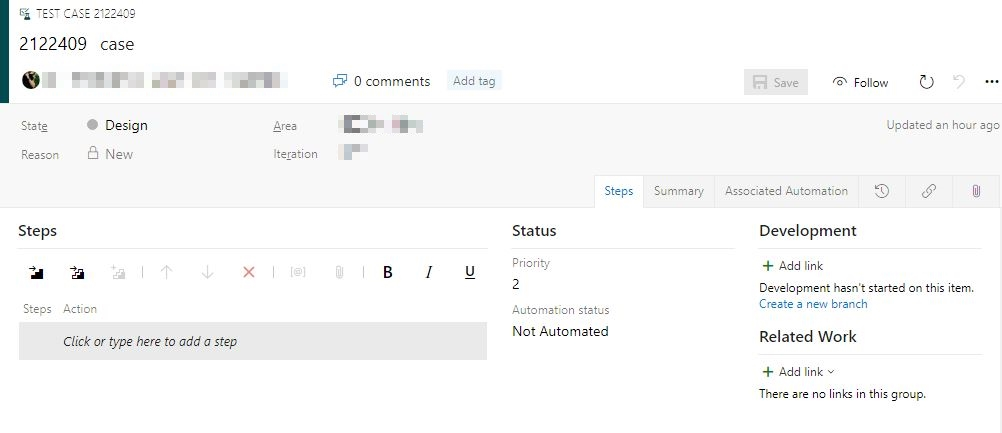
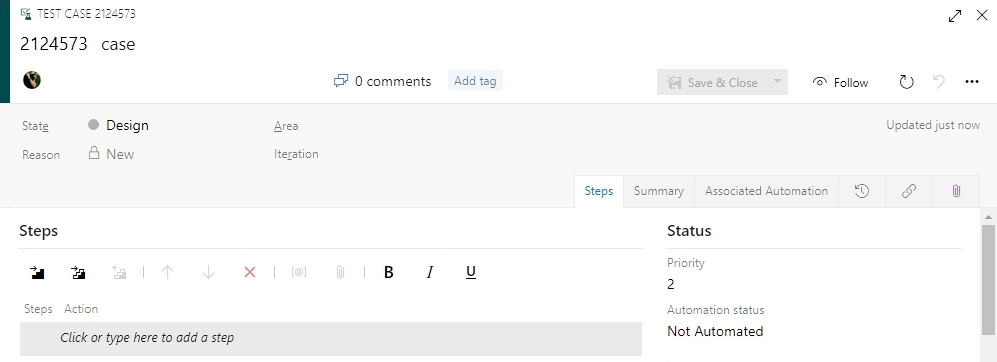
Изменил скриншоты

diff --git a/README.md b/README.md
@@ -17,7 +17,7 @@ Feature: Log to application
 ### 2. Create empty Test Cases in TFS and add tags with id to scenario:
 >![Empty case](https://github.com/kharakhorin/FeatureSync/blob/master/Docs/Img/empty_case.JPG)
 ```gherkin
-@2122409 @posistive
+@2124573 @posistive
 Scenario: Successful authorization
 	Given I on authorization page
 	And I enter:
